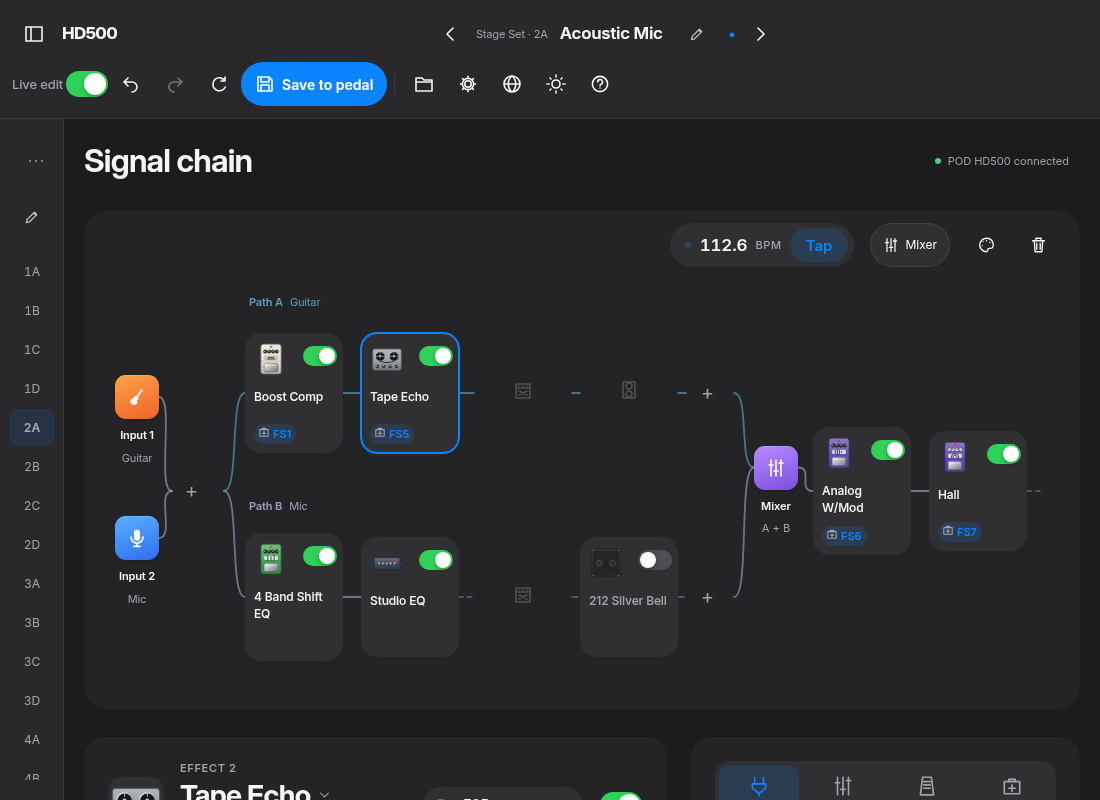
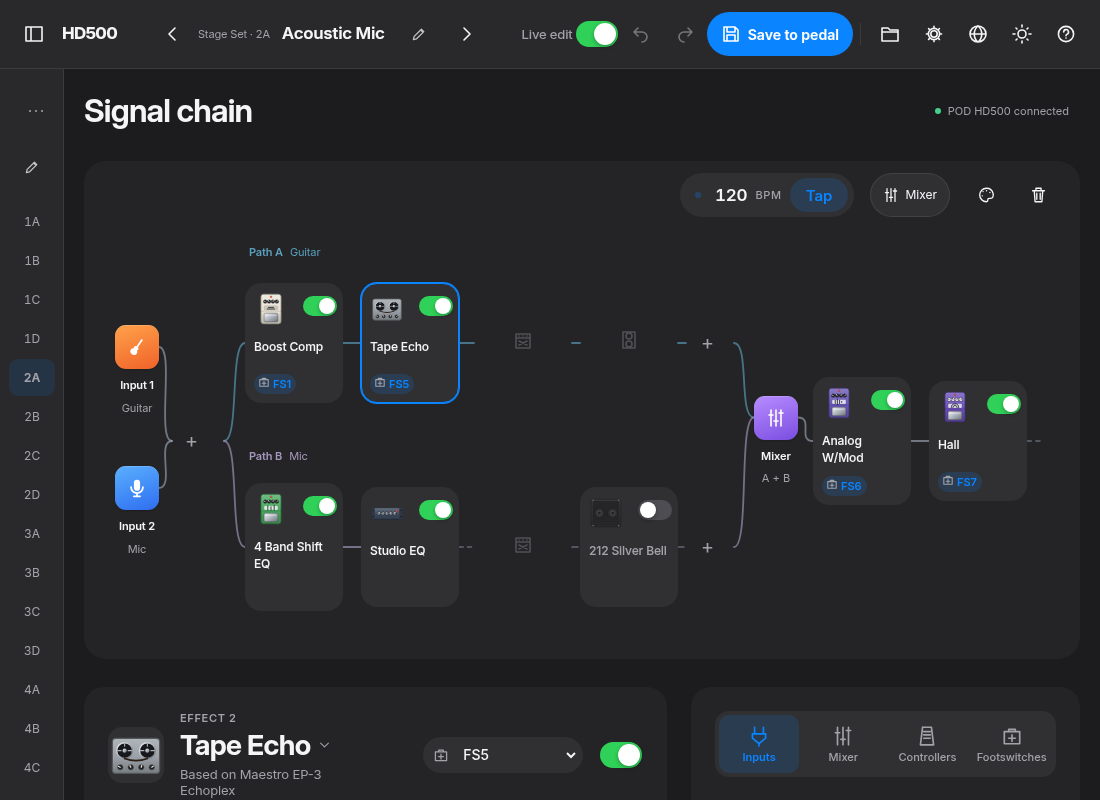
DT controls explained; changelog

diff --git a/app/public/js/inspector.js b/app/public/js/inspector.js
@@ -47,7 +47,7 @@ function DtRow(it) {
       opts.map((o, i) => h('option', { value: i }, o)));
     sel.value = it.dt[key]; return h('label', { class: 'dim' }, `${label} `, sel);
   };
-  return h('details', { class: 'inset-details' }, h('summary', {}, 'Dynamic Tone'), h('div', { class: 'row' }, mk('Topology', 'topology', ['I', 'II', 'III', 'IV']), mk('Class', 'class', ['A', 'A/B']), mk('Mode', 'mode', ['Tri', 'Pent'])));
+  return h('details', { class: 'inset-details' }, h('summary', {}, 'DT amp power stage (L6 LINK)'), h('p', { class: 'ios-footer' }, 'Only used when a Line 6 DT50 or DT25 amp is connected through L6 LINK. Without one these settings do not change the sound.'), h('div', { class: 'row' }, mk('Topology', 'topology', ['I', 'II', 'III', 'IV']), mk('Class', 'class', ['A', 'A/B']), mk('Mode', 'mode', ['Tri', 'Pent'])));
 }
 
 function RangeRow(it, p) {

diff --git a/app/public/js/i18n-pt.js b/app/public/js/i18n-pt.js
@@ -482,5 +482,7 @@ export const PT = {
  "If it still fails, close other programs that use the pedal.": "Se ainda falhar, feche outros programas que usam o pedal.",
  "No other program using the pedal": "Nenhum outro programa usando o pedal",
  "Close the official Line 6 editor or any other MIDI/USB tool.": "Feche o editor oficial da Line 6 ou qualquer outra ferramenta MIDI/USB.",
- "Copy": "Copiar"
+ "Copy": "Copiar",
+ "DT amp power stage (L6 LINK)": "Estágio de potência do amp DT (L6 LINK)",
+ "Only used when a Line 6 DT50 or DT25 amp is connected through L6 LINK. Without one these settings do not change the sound.": "Só é usado quando um amp Line 6 DT50 ou DT25 está conectado pelo L6 LINK. Sem um deles, estes ajustes não mudam o som."
 };

diff --git a/CHANGELOG.md b/CHANGELOG.md
@@ -1,6 +1,12 @@
 # Changelog
 
 ## 0.2.9
+- Tempo pill with Tap in the chain toolbar (blinks at the tempo; T key); the chain now fits the window in two compact steps.
+- Compare button: hear the saved version against your edits.
+- Backups sheet (File ▸ Backups…) and Setlist sheet (File ▸ Print setlist…: print/PDF/CSV).
+- First-connection assistant: checks the USB cable, the udev rule / WinUSB driver and other programs using the pedal.
+- Controllers panel as grouped cards; footswitch panel with stomp keys and LEDs; Toe + EXP chips on blocks with both.
+- DT amp controls explained (only used with DT50/DT25 over L6 LINK).
 - Effect info sheets: maker/unit and sourced facts with Portuguese translations, friendly source labels; i18n coverage check.
 - Save now reloads the slot afterwards so the pedal's "edited" asterisk clears.
 - Cleaner UI: the Advanced tab (raw bytes, MIDI bytes, setting learner) moved to File ▸ Developer tools; footers removed; side-panel tab bar has four items.
